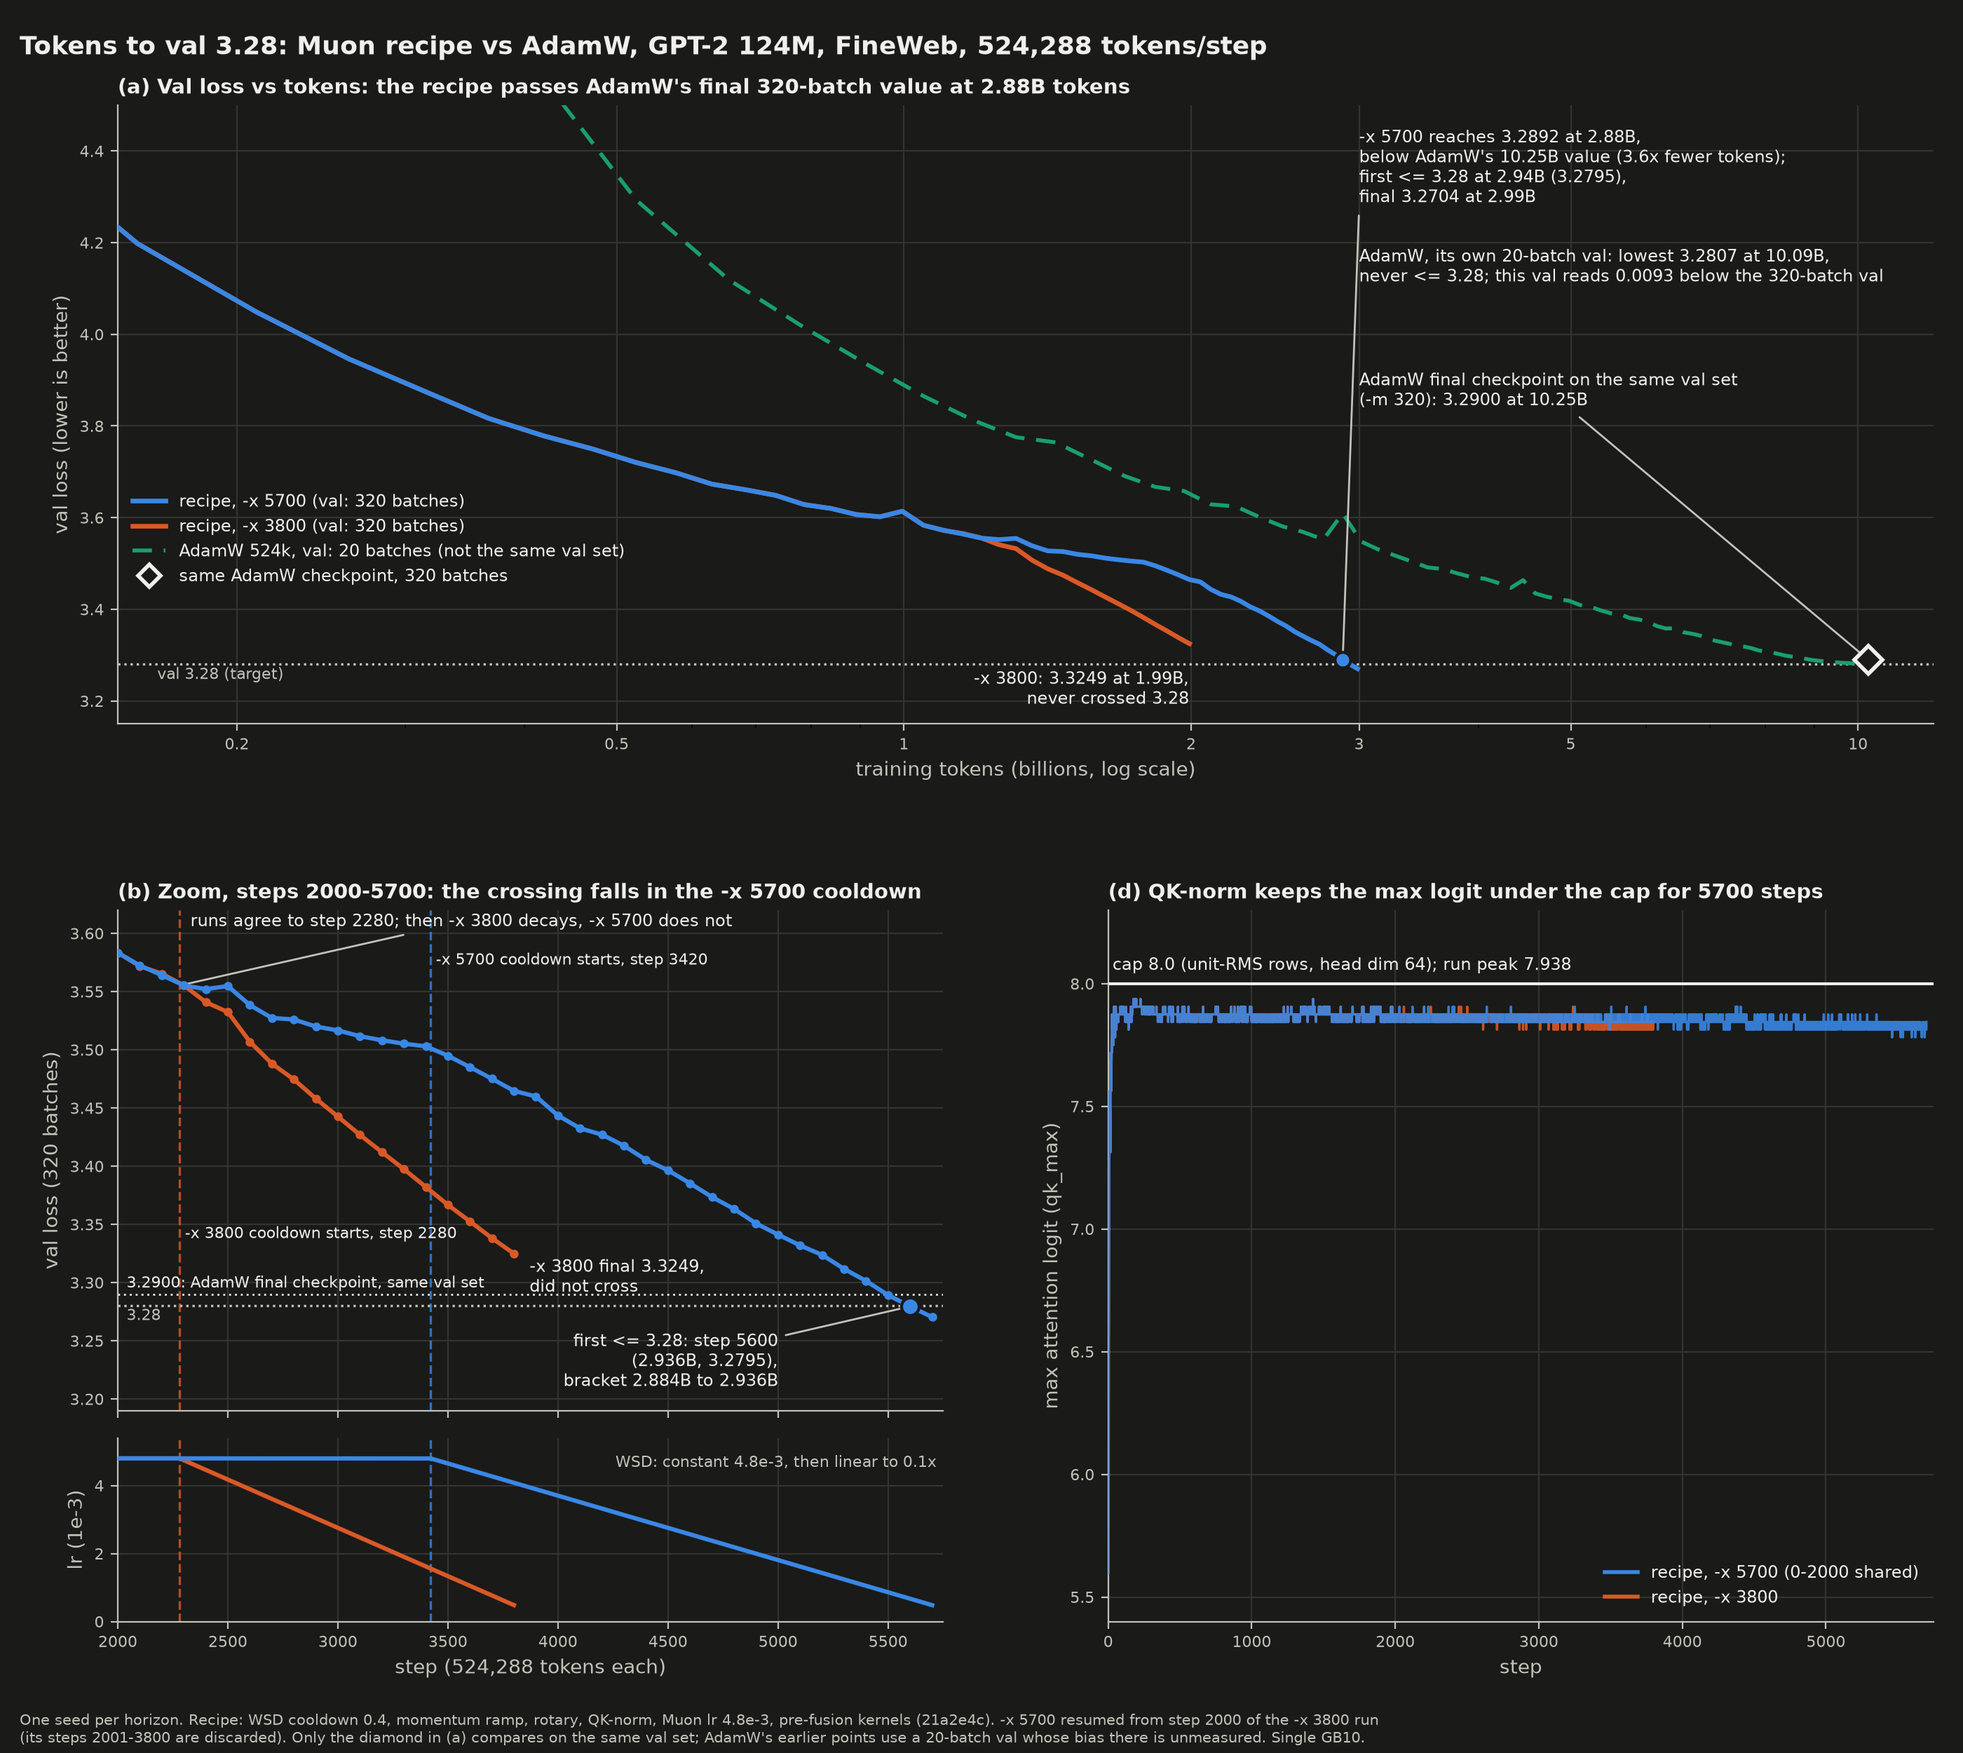
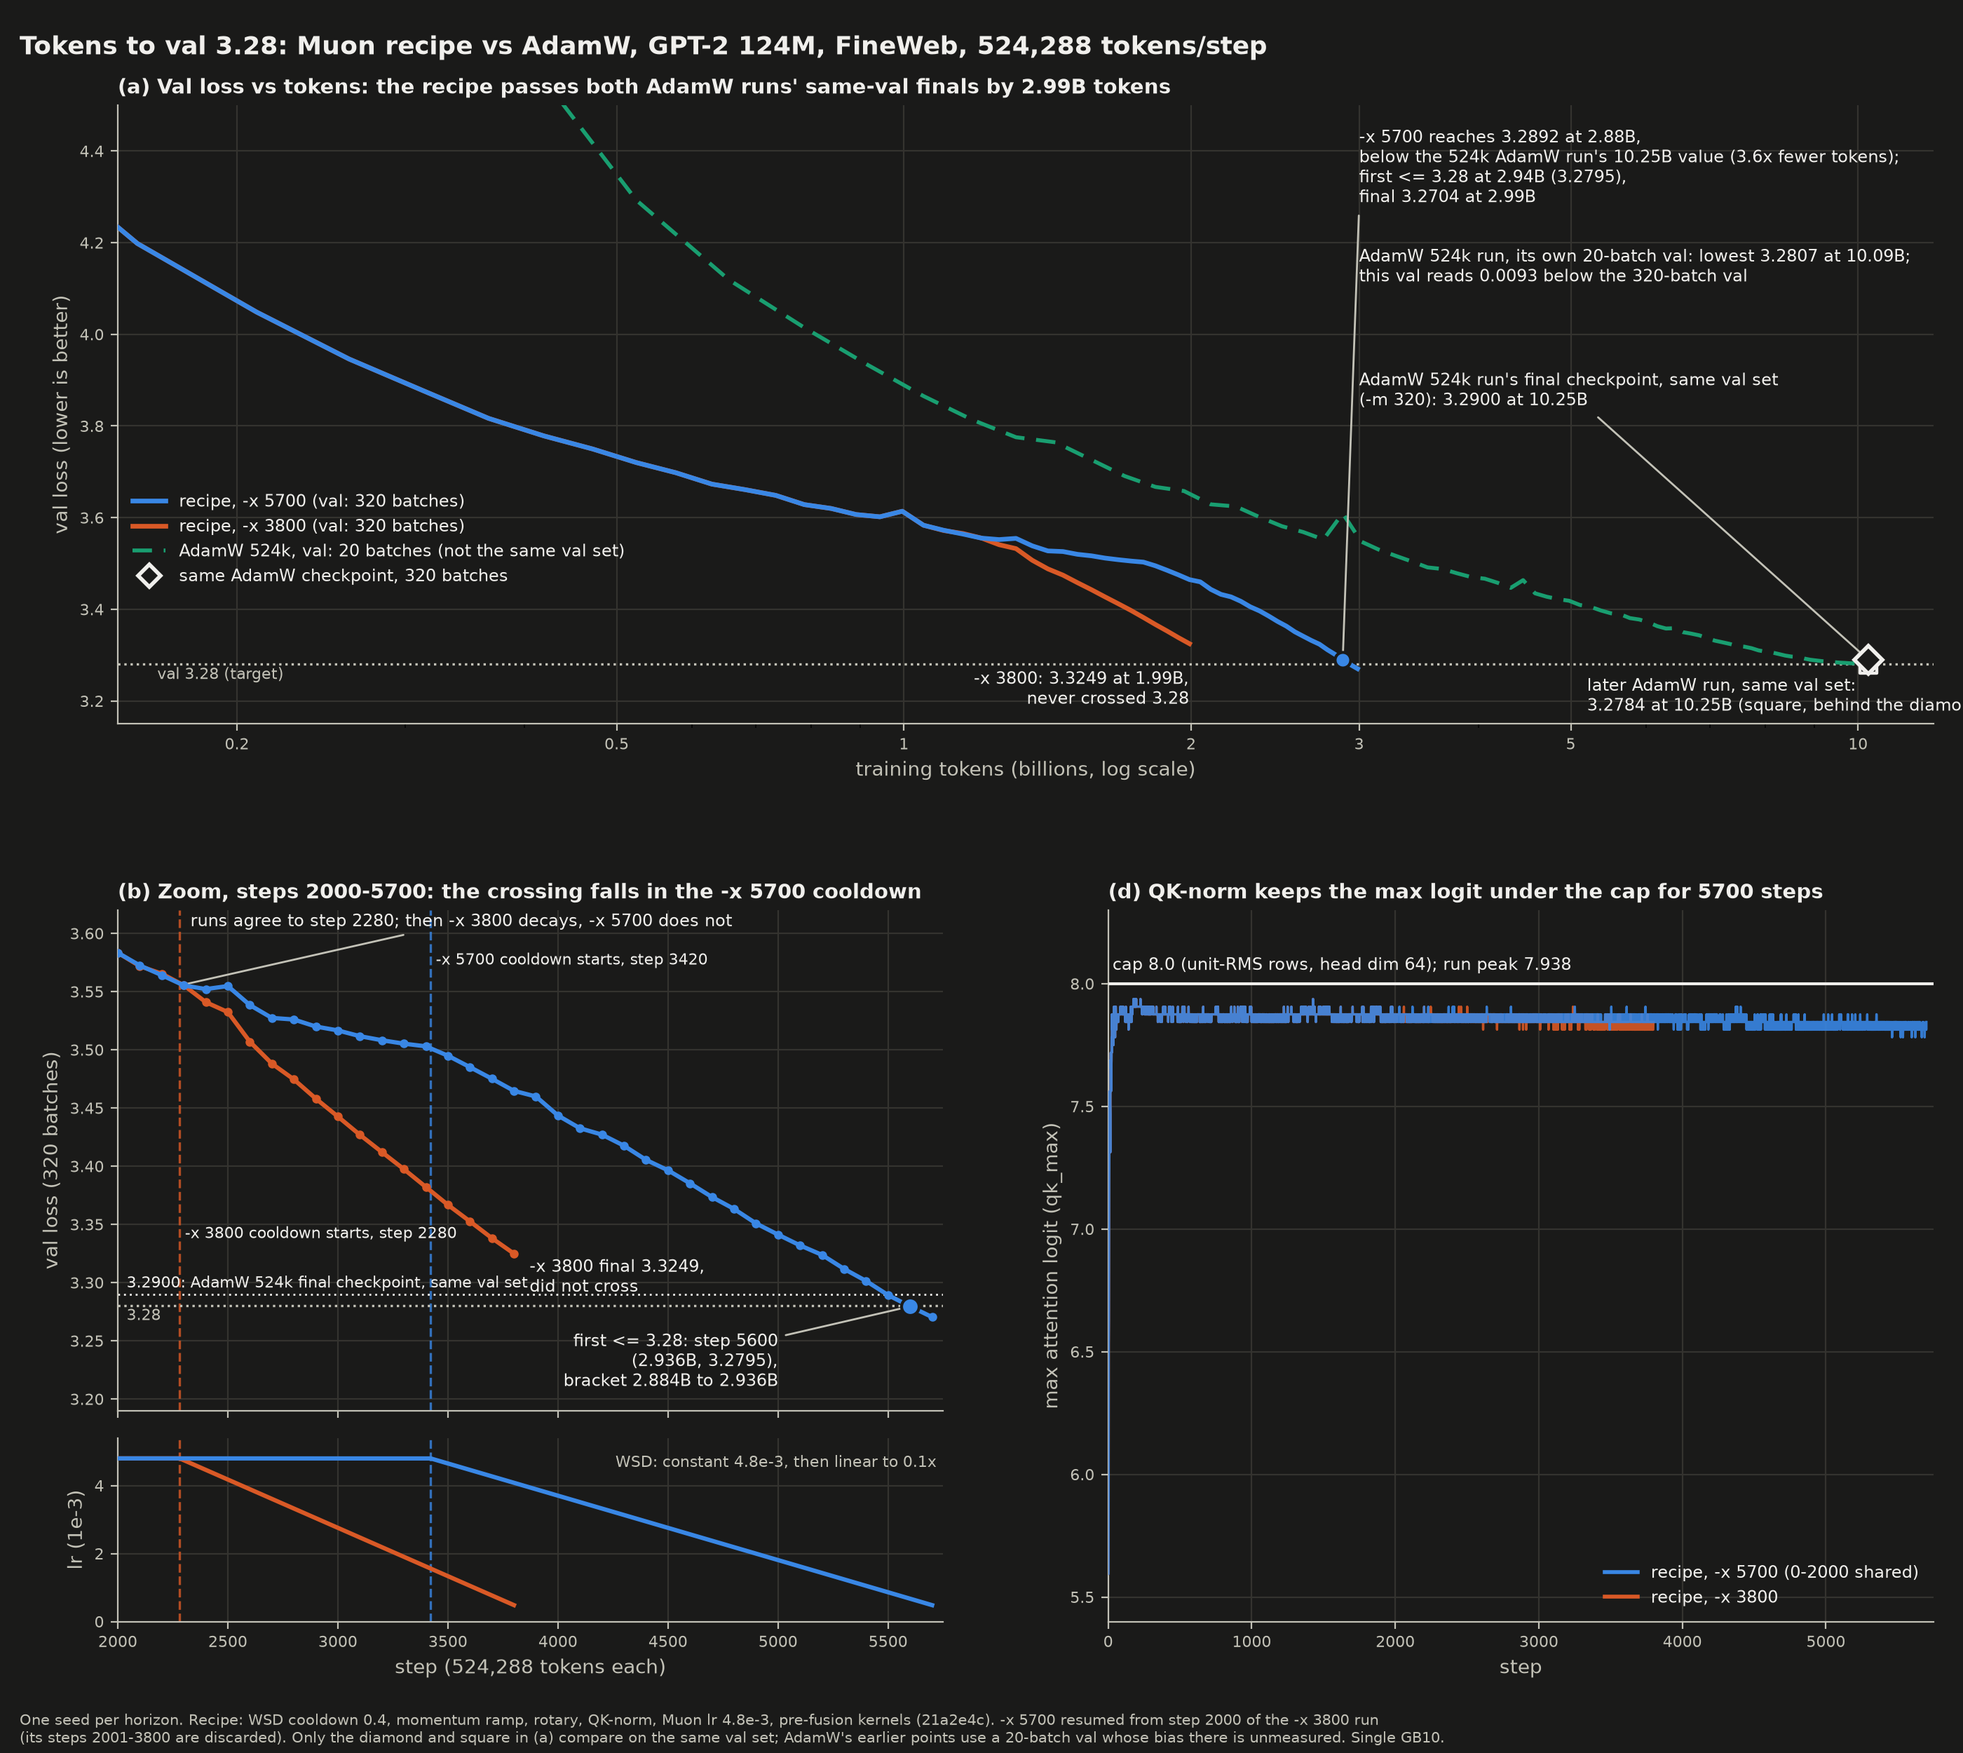
Correct the headline comparison: a second AdamW run reaches 3.2784 on the same val
'AdamW never reached 3.28' held only for model_19552.bin (3.2900 at -m 320).
The current model.safetensors of gpt2-124m-fineweb-mojo, a 7-GPU run at
458,752 tokens/step and also 10.25B tokens, scores 3.2784467 there (measured by
the verifier, reproduced by the coordinator). The recipe still ends lower
(3.2704) and passes 3.2784 by 2.99B tokens, about 3.4x fewer than that run's
total. Also updates the README's stale published-files line and the wrong 6.97
in unflagged_init_note (measured 8.55).

diff --git a/scripts/figure_adoption_headline.py b/scripts/figure_adoption_headline.py
@@ -60,6 +60,8 @@ ADAMW_FINAL = dict(
     m320=3.2900271,
     note="log124M/model_19552.bin evaluated with this repo's trainer at -m 20 and -m 320",
 )
+# The later AdamW run (gpt2-124m-fineweb-mojo model.safetensors, 7 GPUs, 458,752 tokens/step).
+ADAMW_RERUN = dict(tokens_B=22345 * 458752 / 1e9, m320=3.2784467)
 RUNS = {
     "x5700": ("recipe, -x 5700", 0),
     "x3800": ("recipe, -x 3800", 1),
@@ -277,7 +279,7 @@ def render(R, S, mode: str, out: Path) -> None:
         zorder=7,
     )
     a.annotate(
-        f"AdamW final checkpoint on the same val set\n(-m 320): {m320:.4f} at 10.25B",
+        f"AdamW 524k run's final checkpoint, same val set\n(-m 320): {m320:.4f} at 10.25B",
         (tok_b(ADAMW_FINAL["step"]), m320),
         xytext=(3.0, 3.92),
         textcoords="data",
@@ -300,7 +302,7 @@ def render(R, S, mode: str, out: Path) -> None:
     )
     a.annotate(
         f"-x 5700 reaches {f90['val']:.4f} at {f90['tokens_B']:.2f}B,\n"
-        f"below AdamW's 10.25B value ({pas['token_ratio_vs_adamw_final']:.1f}x fewer tokens);\n"
+        f"below the 524k AdamW run's 10.25B value ({pas['token_ratio_vs_adamw_final']:.1f}x fewer tokens);\n"
         f"first <= 3.28 at {f28['tokens_B']:.2f}B ({f28['val']:.4f}),\n"
         f"final {S['runs']['x5700']['final']['val']:.4f} at {S['runs']['x5700']['final']['tokens_B']:.2f}B",
         (pas["tokens_B"], pas["val"]),
@@ -325,12 +327,32 @@ def render(R, S, mode: str, out: Path) -> None:
     )
     la = S["runs"]["adamw"]["final"]
     a.annotate(
-        "AdamW, its own 20-batch val: lowest 3.2807 at 10.09B,\nnever <= 3.28; this val reads 0.0093 below the 320-batch val",
+        "AdamW 524k run, its own 20-batch val: lowest 3.2807 at 10.09B;\nthis val reads 0.0093 below the 320-batch val",
         (la["tokens_B"], la["val"]),
         xytext=(3.0, 4.19),
         textcoords="data",
         ha="left",
         va="top",
+        fontsize=8.5,
+        color=ink,
+    )
+    a.scatter(
+        [ADAMW_RERUN["tokens_B"]],
+        [ADAMW_RERUN["m320"]],
+        marker="s",
+        s=70,
+        facecolor="none",
+        edgecolor=ink,
+        linewidths=1.6,
+        zorder=6,
+    )
+    a.annotate(
+        f"later AdamW run, same val set:\n{ADAMW_RERUN['m320']:.4f} at 10.25B (square, behind the diamond)",
+        (ADAMW_RERUN["tokens_B"], ADAMW_RERUN["m320"]),
+        xytext=(5.2, 3.21),
+        textcoords="data",
+        ha="left",
+        va="center",
         fontsize=8.5,
         color=ink,
     )
@@ -386,7 +408,7 @@ def render(R, S, mode: str, out: Path) -> None:
     )
     title(
         a,
-        "(a) Val loss vs tokens: the recipe passes AdamW's final 320-batch value at 2.88B tokens",
+        "(a) Val loss vs tokens: the recipe passes both AdamW runs' same-val finals by 2.99B tokens",
     )
 
     # ---- (b) zoom
@@ -408,7 +430,7 @@ def render(R, S, mode: str, out: Path) -> None:
     b.text(
         lo + 40,
         m320 + 0.0025,
-        "3.2900: AdamW final checkpoint, same val set",
+        "3.2900: AdamW 524k final checkpoint, same val set",
         fontsize=8,
         color=ink,
         va="bottom",
@@ -552,7 +574,7 @@ def render(R, S, mode: str, out: Path) -> None:
         0.01,
         0.006,
         "One seed per horizon. Recipe: WSD cooldown 0.4, momentum ramp, rotary, QK-norm, Muon lr 4.8e-3, pre-fusion kernels (21a2e4c). -x 5700 resumed from step 2000 of the -x 3800 run\n"
-        "(its steps 2001-3800 are discarded). Only the diamond in (a) compares on the same val set; AdamW's earlier points use a 20-batch val whose bias there is unmeasured. Single GB10.",
+        "(its steps 2001-3800 are discarded). Only the diamond and square in (a) compare on the same val set; AdamW's earlier points use a 20-batch val whose bias there is unmeasured. Single GB10.",
         fontsize=7.5,
         color=sub,
     )

diff --git a/README.md b/README.md
@@ -169,8 +169,8 @@ existed records rotary only, so a QK-norm build refuses to resume it). A `.bin` 
 e.g. pretrained GPT-2, still initialises a flagged run (`-e`) and `infer_gpt2` runs it with the
 build's architecture after printing a note, as the trainer's `-e` does (the verify gates rely on this);
 `infer_gpt2` refuses a stock-`gpt2` safetensors in a flagged build. Checkpoints written
-before the QK-norm bit existed, including the published headline files, record rotary only; write a
-corrected copy with `scripts/set_checkpoint_arch_flags.py`. The MAX graphs refuse any flagged file.
+before the QK-norm bit existed record rotary only (the published headline files were corrected, and the
+originals remain in that repo's git history); write a corrected copy with `scripts/set_checkpoint_arch_flags.py`. The MAX graphs refuse any flagged file.
 Default-build checkpoints are byte-identical to before.
 Reference (`GPT2_ROTARY=1` in `train_gpt2.py`), gates and results:
 [`docs/ai/rotary_embeddings_w8_2026-10-30.md`](docs/ai/rotary_embeddings_w8_2026-10-30.md).
@@ -197,7 +197,7 @@ Three-seed confirmation of the recommended recipe (WSD cooldown, momentum ramp, 
   <img alt="Three-seed confirmation of the combined adoption recipe: val loss per seed, paired step-600 values, gain by step, train loss and step time" src="figures/modded_nanogpt_adoption_seeds_2026-10-31.png">
 </picture>
 
-Headline run: the same recipe at the full 524,288 tokens/step (one seed, `-x 5700`, 2.99B tokens, 17 h on one GB10, pre-fusion kernels) against the in-house AdamW run (10.25B tokens). On the same 10.5M-token val set (`-m 320`) AdamW's final checkpoint scores 3.2900; the recipe passes that at 2.88B tokens, about 3.6x fewer, and ends at 3.2704. AdamW never reached 3.28 on either val set: its own 20-batch val bottoms out at 3.2807, and that val reads 0.0093 below the 320-batch one at the final checkpoint (the bias at earlier checkpoints is unmeasured, so AdamW's crossing tokens on that val are not same-val). The recipe's first val <= 3.28 is at 2.94B tokens. That figure belongs to the (recipe, horizon) pair, since it falls in the cooldown: the same recipe at `-x 3800` (1.99B tokens) ends at 3.3249 and does not cross. It is one seed, the 5700-step run resumed from step 2000 of the 3800-step run (before either cooldown), and the learning rate was tuned at 131k tokens/step. modded-nanogpt's under 0.7B tokens uses a larger architecture stack and is not like-for-like. Reproduce with `make figure-adoption-headline`; table, caveats and the per-eval numbers in the [results doc](docs/ai/modded_nanogpt_adoption_results_2026-10-30.md). Weights and resume state: [ulmentflam/gpt2-124m-fineweb-muon-rotary-qknorm-mojo](https://huggingface.co/ulmentflam/gpt2-124m-fineweb-muon-rotary-qknorm-mojo) (the raw `.bin` plus a `model.safetensors` with `model_type: llm_mojo_gpt2`; both need a `-D LLMM_ROTARY=1 -D LLMM_QK_NORM=1` build of llm.mojo to compute the right model). `AutoConfig`, `AutoModelForCausalLM` and `pipeline` refuse that safetensors by design; an explicit `GPT2LMHeadModel.from_pretrained` loads it with a warning and a randomly initialised `wpe` and computes the wrong model (it is not stock GPT-2). The safetensors comes from `python scripts/export_to_hf.py --input model_5700.bin --output <dir>` (a rotary-only file needs `--flags-confirmed`, `--attn-scale` records a non-default scale) and is checked by `scripts/check_hf_export.py --expect-loss`; see [the doc](docs/ai/arch_flags_and_safetensors_export_2026-11-02.md).
+Headline run: the same recipe at the full 524,288 tokens/step (one seed, `-x 5700`, 2.99B tokens, 17 h on one GB10, pre-fusion kernels) against two in-house AdamW runs of 10.25B tokens. On the same 10.5M-token val set (`-m 320`) the better one, the current `model.safetensors` of `gpt2-124m-fineweb-mojo` (7 GPUs, 458,752 tokens/step), scores 3.2784, and the recipe passes that by 2.99B tokens, about 3.4x fewer, ending at 3.2704. The 524k-token AdamW run the recipe was designed against (`model_19552.bin`) scores 3.2900 there, and the recipe passes that at 2.88B tokens, about 3.6x fewer. That second run's own 20-batch val bottoms out at 3.2807 and reads 0.0093 below the 320-batch one at its final checkpoint (the bias at earlier checkpoints is unmeasured, so its crossing tokens on that val are not same-val). The recipe's first val <= 3.28 is at 2.94B tokens. That figure belongs to the (recipe, horizon) pair, since it falls in the cooldown: the same recipe at `-x 3800` (1.99B tokens) ends at 3.3249 and does not cross. It is one seed, the 5700-step run resumed from step 2000 of the 3800-step run (before either cooldown), and the learning rate was tuned at 131k tokens/step. modded-nanogpt's under 0.7B tokens uses a larger architecture stack and is not like-for-like. Reproduce with `make figure-adoption-headline`; table, caveats and the per-eval numbers in the [results doc](docs/ai/modded_nanogpt_adoption_results_2026-10-30.md). Weights and resume state: [ulmentflam/gpt2-124m-fineweb-muon-rotary-qknorm-mojo](https://huggingface.co/ulmentflam/gpt2-124m-fineweb-muon-rotary-qknorm-mojo) (the raw `.bin` plus a `model.safetensors` with `model_type: llm_mojo_gpt2`; both need a `-D LLMM_ROTARY=1 -D LLMM_QK_NORM=1` build of llm.mojo to compute the right model). `AutoConfig`, `AutoModelForCausalLM` and `pipeline` refuse that safetensors by design; an explicit `GPT2LMHeadModel.from_pretrained` loads it with a warning and a randomly initialised `wpe` and computes the wrong model (it is not stock GPT-2). The safetensors comes from `python scripts/export_to_hf.py --input model_5700.bin --output <dir>` (a rotary-only file needs `--flags-confirmed`, `--attn-scale` records a non-default scale) and is checked by `scripts/check_hf_export.py --expect-loss`; see [the doc](docs/ai/arch_flags_and_safetensors_export_2026-11-02.md).
 
 <picture>
   <source media="(prefers-color-scheme: dark)" srcset="figures/modded_nanogpt_adoption_headline_2026-11-02_dark.png">

diff --git a/docs/ai/modded_nanogpt_adoption_results_2026-10-30.md b/docs/ai/modded_nanogpt_adoption_results_2026-10-30.md
@@ -590,7 +590,19 @@ The combined recipe passes that value by **2.88B tokens** (step 5500, 3.28924;
 step 5400 read 3.30137), about **3.6x fewer tokens**, and ends at **3.27035 at
 2.99B**, 0.0197 below AdamW's final checkpoint on that val set. Under the same
 `-m 320` rule AdamW's final checkpoint has not reached 3.28 either (3.2900), so
-there is no AdamW tokens-to-3.28 and this doc computes no ratio to it.
+that run has no tokens-to-3.28 and this doc computes no ratio to it.
+
+**Correction: there is a better AdamW run.** The comparison above is against the
+524k-token run this headline was designed around. `gpt2-124m-fineweb-mojo`'s
+current `model.safetensors` (sha256 prefix 824e4085) is a different AdamW run,
+7 GPUs at 458,752 tokens/step, 22,345 steps, also 10.25B tokens. Scored the same
+way (`-m 320`, default bf16 build, one measurement) it reaches **3.2784**, so
+AdamW *can* reach 3.28 on this val set by 10.25B tokens, and any statement here
+that AdamW did not applies only to `model_19552.bin`. The recipe still ends
+lower: step 5600 read 3.27953 and step 5700 read 3.27035, so it passes 3.2784
+in (2.936B, 2.988B], about **3.4x** fewer tokens than that run's total. That run's
+own crossing point on this val set is not known, so 3.4x compares against its
+endpoint, and so does the 3.6x above.
 
 ![Headline run: val loss vs tokens for the recipe at two horizons and the AdamW baseline, the crossing zoomed with both cooldowns, the learning rate, and the max attention logit](../../figures/modded_nanogpt_adoption_headline_2026-11-02.png)
 

diff --git a/docs/ai/gpt2_124m_fineweb_training_run.md b/docs/ai/gpt2_124m_fineweb_training_run.md
@@ -67,7 +67,8 @@ current, generalized equivalents.
   decaying to zero. That val loss is on the run's own 20-batch val (`-m 20`,
   655,360 tokens). The same checkpoint scores 3.2900271 on the full
   320-batch, 10.5M-token val set (`-m 320`), so the run reached 3.2807 on its
-  val and 3.2900 on the larger one; it did not reach 3.28 on either rule.
+  val and 3.2900 on the larger one; it did not reach 3.28 on either rule. A later AdamW re-run, now the main weights of
+  `gpt2-124m-fineweb-mojo`, scores 3.2784 on the 320-batch val.
 - **Steady-state throughput:** ~33.6k tok/s (~15.5–15.6 s/step at B=32,
   T=1024), **~21.6% bf16 MFU**, confirmed directly from the training log
   (`step 19552/19552 | loss 3.345018 | ... | 15572.90 ms | 21.6% bf16 MFU | 33659

diff --git a/docs/ai/modded_nanogpt_adoption_plan_2026-10-30.md b/docs/ai/modded_nanogpt_adoption_plan_2026-10-30.md
@@ -422,7 +422,8 @@ plus the record 5 architecture in January 2025; under 330M today with
 everything). The existing 524k-token AdamW run is the
 baseline; it did not reach 3.28: it ended at 3.2807 on its own 20-batch val and
 3.2900 on the 320-batch val that modded-nanogpt's target uses (see the results
-doc's headline section). Once W1 to W3 are in, schedule a single full run of the best recipe
+doc's headline section). A second AdamW run, the current weights of
+`gpt2-124m-fineweb-mojo`, does reach 3.2784 on the 320-batch val. Once W1 to W3 are in, schedule a single full run of the best recipe
 at the full batch and record tokens-to-3.28 in the README table.
 
 ## 6. Results
